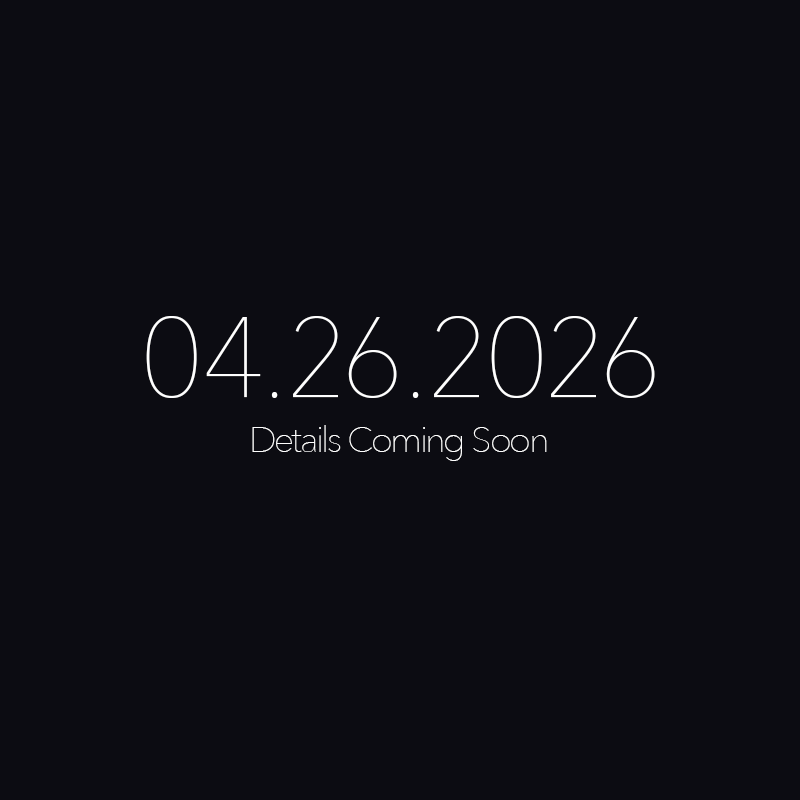
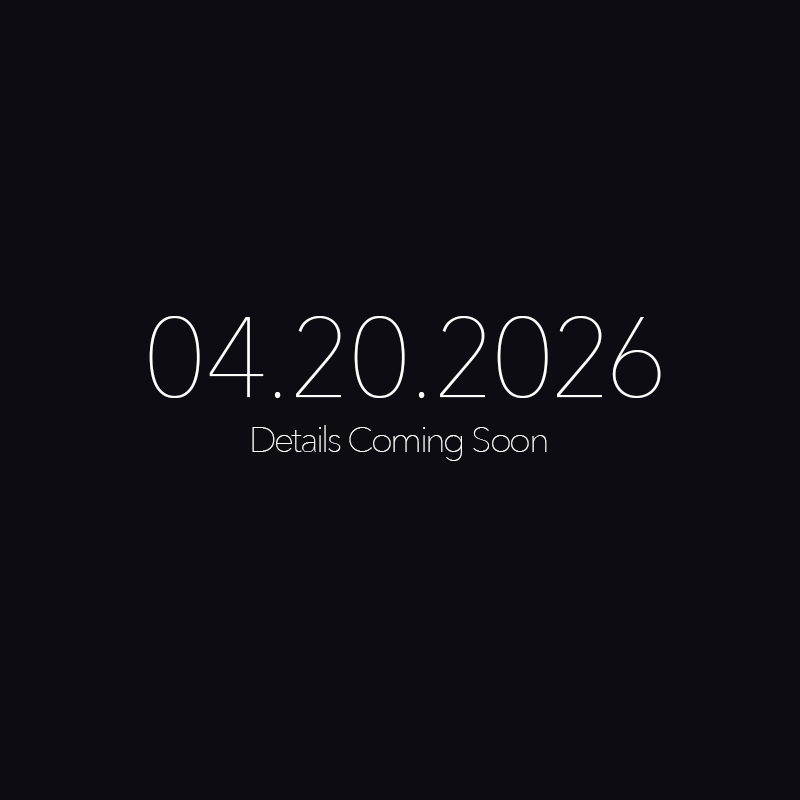
1

diff --git a/studiolog/section4.js b/studiolog/section4.js
@@ -1,35 +1,37 @@
 // ===== Section 4: 연속 트랙 + 중앙 강조 + 비순환 + 마지막 CTA =====
 
 const NEWS = [
+
+    {
+    hero: "studiolog/secass4/NewsDDW2.png",
+    href: "studiolog/log/202604/",
+    bg:   "#0a0a0a",
+    title: "DIGITAL DESIGN WEEK 26",
+    host: "Digital Exhibition Group",
+    when:  "Apr 20, 2026",
+    where: "Milan, Italy",
+    cta:  "studiolog/",
+    rw:6, rh:7, shift:0
+  },
+
   {
-    hero: "studiolog/secass4/0315Front.png",
-    href: "studiolog/log/202603/",
+    hero: "studiolog/secass4/CN031526.avif",
+    href: "studiolog/log/202603.N2/",
     bg: "#0a0a0a",
     title: "Volume 2",
     host:  "Brooklyn to Gangnam Magazine",
     when:  "MAR 2026",
-    where: "New York, USA",
+    where: "Print + Digital Publication",
     rw:6, rh:7, shift:0
   },
   {
-    hero: "studiolog/secass4/NewsAfterlives.jpg",
-    href: "studiolog/log/202505.N2/",
+    hero: "studiolog/secass4/NewsPlayful.png",
+    href: "studiolog/log/202603.N1/",
     bg:   "#0a0a0a",
-    title: "Afterlives",
-    host: "Digital Arts, Pratt Institute",
-    when:  "May 19, 2025",
-    where: "New york, USA ",
-    rw:6, rh:7, shift:0
-  },
-  {
-    hero: "studiolog/secass4/NewsMetaMorphosis.png",
-    href: "studiolog/log/202505.N1/",
-    bg:   "#0a0a0a",
-    title: "Meta-Morphosis",
-    host: "Digital Arts, Pratt Institute",
-    when:  "May 12, 2025",
-    where: "New York, USA",
-    cta:  "studiolog/",
+    title: "Playful",
+    host: "Domio Gallery",
+    when:  "Mar 6, 2026",
+    where: "Online Exhibition ",
     rw:6, rh:7, shift:0
   }
 ];

diff --git a/studiolog/log/202505.N2/202505.N2.css b/studiolog/log/202505.N2/202505.N2.css
@@ -222,7 +222,7 @@ body[data-page="log"] header .shop-toggle {
 }
 
 .above-slider-link a:hover {
-  color: #320bc0;
+  color: #4de170;
   opacity: 1;
 }
 

diff --git a/studiolog/log/202603.N1/202603.N1.css b/studiolog/log/202603.N1/202603.N1.css
@@ -222,7 +222,7 @@ body[data-page="log"] header .shop-toggle {
 }
 
 .above-slider-link a:hover {
-  color: #320bc0;
+  color: #cae20f;
   opacity: 1;
 }
 

diff --git a/studiolog/log/202603.N2/202603.N2.css b/studiolog/log/202603.N2/202603.N2.css
@@ -222,7 +222,7 @@ body[data-page="log"] header .shop-toggle {
 }
 
 .above-slider-link a:hover {
-  color: #320bc0;
+  color: #49272c;
   opacity: 1;
 }
 
